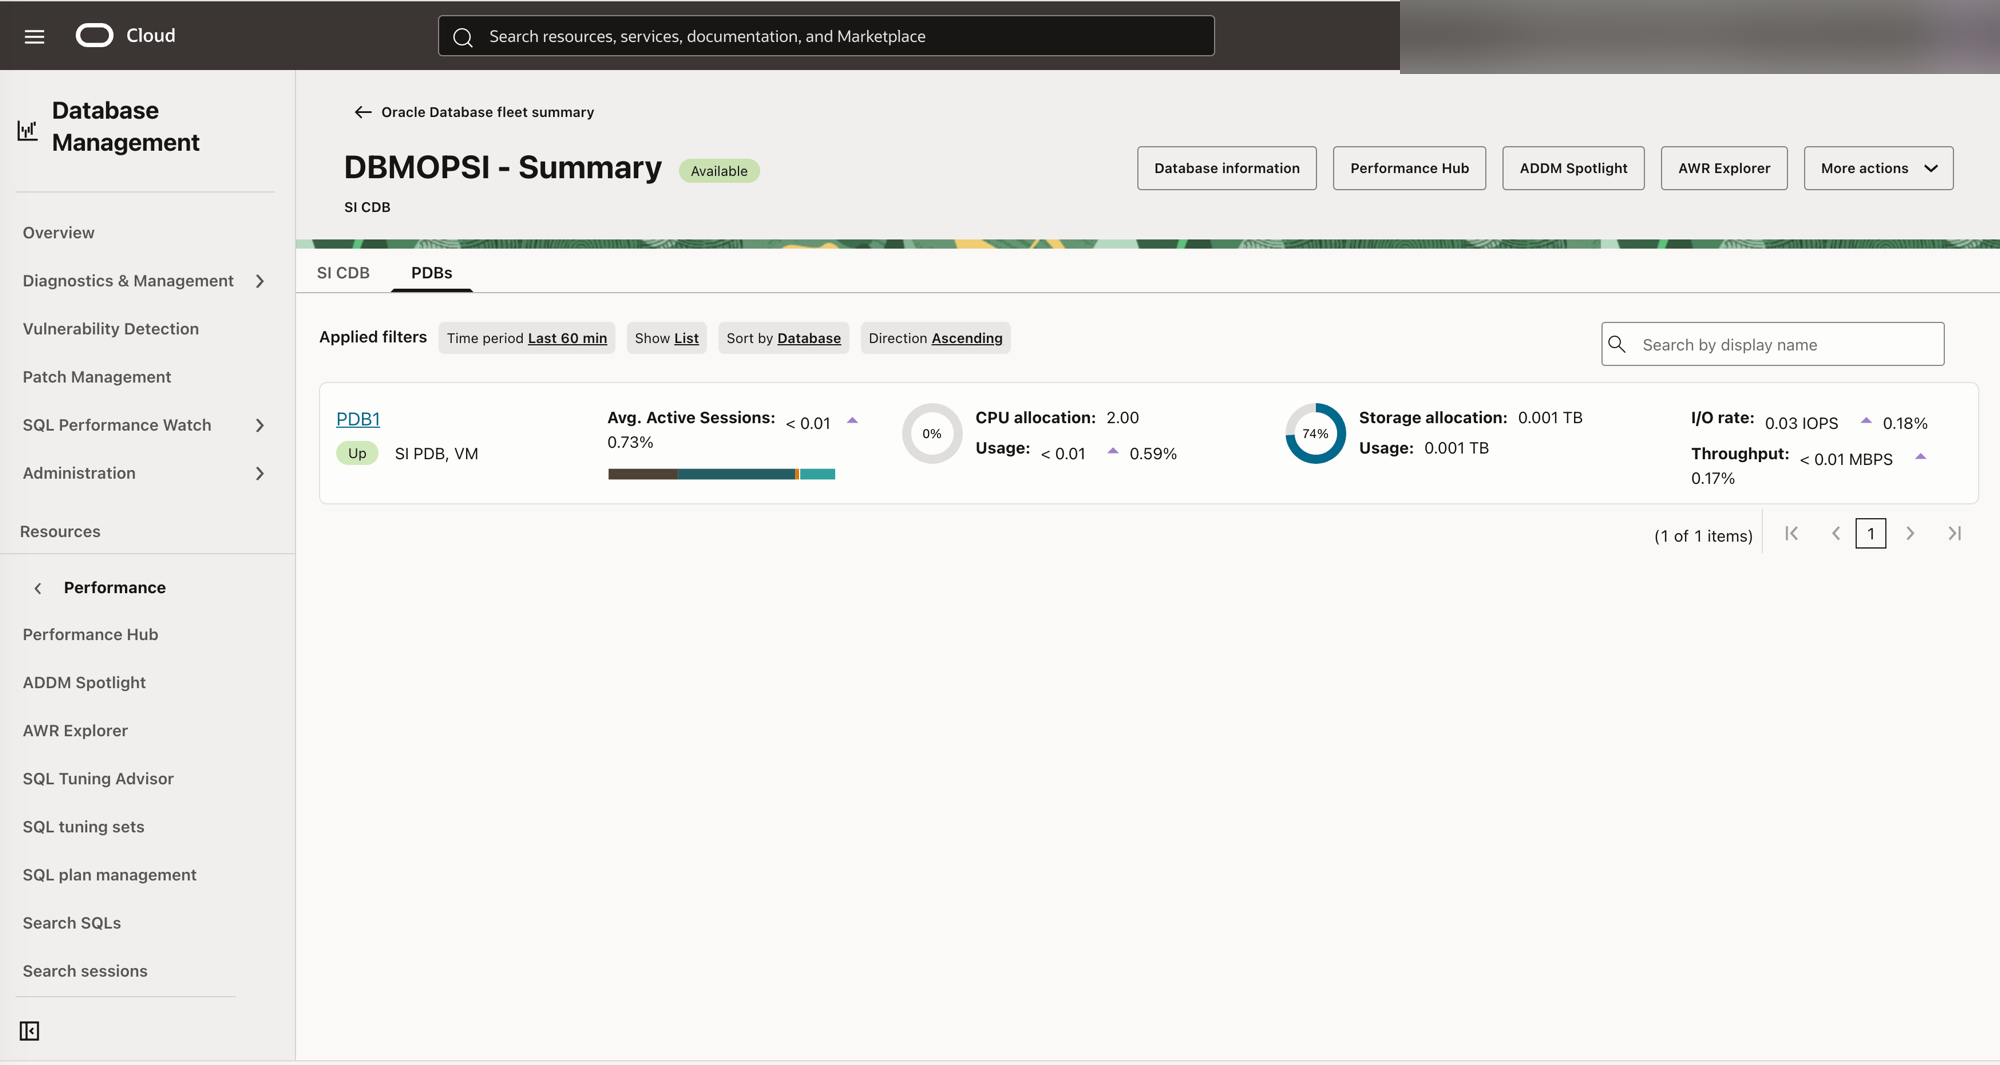
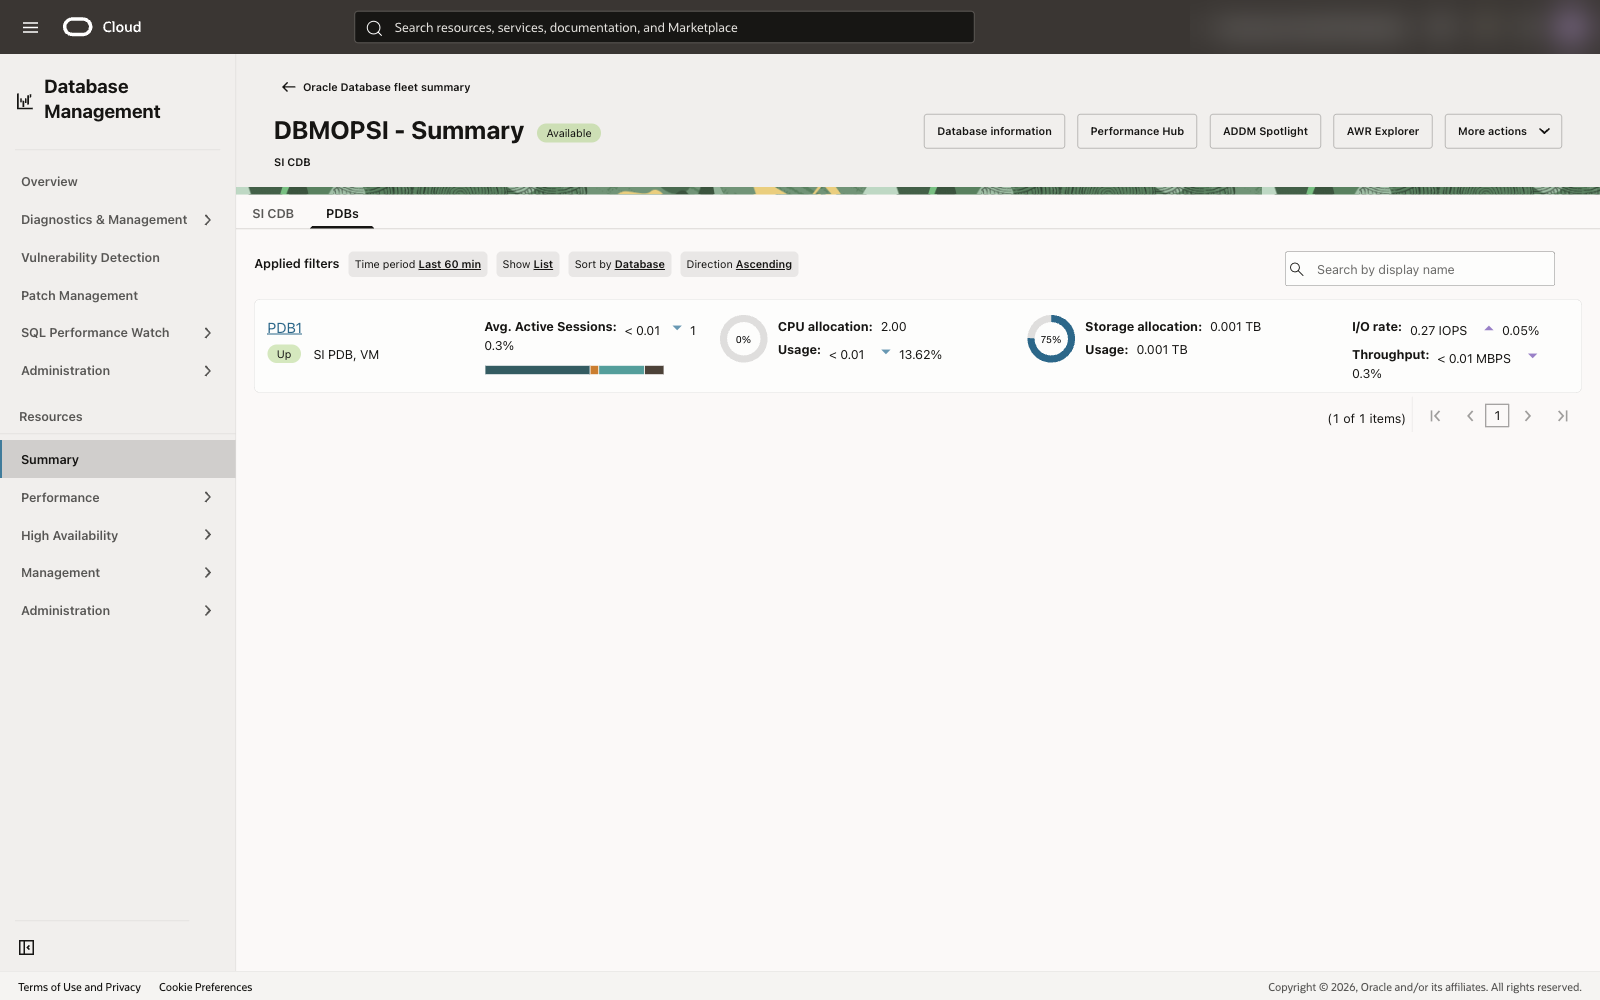
docs: refresh Console screenshots (3 pillars, 2 DB systems) + Data Safe/Perf Hub showcase
Captured via CDP-attach to the operator's logged-in Chrome (JET shadow-DOM defeats
click automation, so operator navigates + a connect_over_cdp helper screenshots),
redacted with PIL (region/account band, compartment chip, and SQL/service/user
tables blurred):

- console-01 (Managed Databases) + console-02 (fleet diagnostics): now show BOTH
  DB systems — DBMOPSI/PDB1 and the new dbmanops/dbmanops_pdb1 — all Enabled/Full.
- console-03 (PDBs tab): PDB1 Up with live Performance Hub metrics.
- console-04 (Data Safe Target databases, NEW): 3 targets Active.
- console-05 (Performance Hub, NEW): AAS chart + ASH Analytics; SQL-detail tables blurred.

Workshop: 'What success looks like (OCI Console)' section ties each capture to its
lab. Runbook Phase 5: console-04/05 added to the committed list; CDP-attach recipe
updated (Security Assessment view as an optional follow-up). raw/ stays gitignored.

diff --git a/docs/RUNBOOK-e2e-cap.md b/docs/RUNBOOK-e2e-cap.md
@@ -326,22 +326,29 @@ Committed (redacted) screenshots in `docs/screenshots/`:
   all-green.
 - `console-03-dbmopsi-pdbs.png` — PDBs tab: PDB1 **Up** with live Performance Hub
   metrics; full Performance/Tuning nav.
+- `console-04-data-safe-targets.png` — Data Safe **Target databases**: the three
+  registered targets (`dbman-opsi-dbcs-PDB1`, `dbman-opsi-dbcs2-cdb`,
+  `dbman-opsi-dbcs2-PDB1`) all **Active**.
+- `console-05-performance-hub.png` — Performance Hub: Activity Summary / Average
+  Active Sessions + ASH Analytics (SQL-detail tables blurred — live SQL/service/users).
+
+The Managed Databases (`console-01`) and fleet (`console-02`) views now show **both**
+DB systems — the original `DBMOPSI`/`PDB1` and the freshly-provisioned
+`dbmanops`/`dbmanops_pdb1` — all Enabled/Full.
 
 Redaction: a DOM/text pass masks OCIDs, IPs, db_unique_name+domain, tenancy/account
 name and emails; for operator-pasted images, sensitive bands (header
 region/account/avatar, compartment chip) are Gaussian-blurred with PIL. Raw captures
 go to `docs/screenshots/raw/` (gitignored) — only redacted images are committed.
 
-### Pending: Data Safe Console view (operator capture)
+### Capturing more Console views (CDP-attach recipe)
 
-A Data Safe screenshot is the one remaining showcase asset. It needs a live,
-logged-in browser (the extension policy blocks automation), so capture it with the
-same **CDP-attach** procedure above and add a redacted
-`console-04-data-safe-targets.png`:
-
-1. Console → **Oracle Data Safe** → **Target databases** (region eu-frankfurt-1).
-2. Show the registered target(s) **Active** (e.g. `dbman-opsi-dbcs-PDB1`,
-   `dbman-opsi-dbcs2-cdb`, `dbman-opsi-dbcs2-PDB1`) and, optionally, a
-   **Security Assessment** summary for one target.
-3. Redact OCIDs / IPs / tenancy / db_unique_name+domain (blur the header band and
-   any service strings) before committing; raw → `docs/screenshots/raw/`.
+The Data Safe and Performance Hub views (`console-04`/`05`) were captured with the
+CDP-attach flow above and are committed. The OCI Console is a JET SPA whose left-nav
+and list rows live in **shadow DOM**, so Playwright/JS clicks do not reach them —
+the reliable recipe is: **you** navigate the menu in the logged-in CDP Chrome, then a
+small `connect_over_cdp` helper screenshots the current tab to
+`docs/screenshots/raw/`, and a PIL pass blurs the region/account band, compartment
+chip, and any SQL/service/user tables before committing. To add a **Security
+Assessment** view, open Data Safe → a target → Security Assessment and capture it the
+same way.

diff --git a/docs/workshop/README.md b/docs/workshop/README.md
@@ -198,6 +198,42 @@ For Data Masking / Data Discovery, also run the per-target privilege script from
 the OCI Console (Data Safe > Target databases > Register > Download Privilege
 Script).
 
+## What success looks like (OCI Console)
+
+These redacted captures (region/account band and compartment chip blurred) show the
+end state after the labs — two Base Database systems (`DBMOPSI`/`PDB1` and a
+freshly-provisioned `dbmanops`/`dbmanops_pdb1`) with all three pillars on.
+
+**Database Management — Managed Databases** (Lab 5). Both container DBs and their
+PDBs show **Enabled / Full** under ADVANCED management:
+
+![Managed Databases](../screenshots/console-01-managed-databases.png)
+
+**Diagnostics & Management — fleet summary** (Lab 5). All managed databases with
+live CPU / storage / Average-Active-Sessions metrics:
+
+![Fleet diagnostics summary](../screenshots/console-02-dbmopsi-summary.png)
+
+**Database summary — Pluggable Databases tab** (Lab 5). `PDB1` **Up** with live
+Performance Hub metrics; the *Performance Hub / ADDM Spotlight / AWR Explorer*
+actions are available (no privilege prompt, thanks to scripts `03`/`05`):
+
+![DBMOPSI PDBs](../screenshots/console-03-dbmopsi-pdbs.png)
+
+**Operations Insights — Performance Hub** (Lab 5). Activity Summary / Average
+Active Sessions with ASH Analytics (SQL-detail tables blurred — they contain live
+SQL, service names, and users):
+
+![Performance Hub](../screenshots/console-05-performance-hub.png)
+
+**Data Safe — Target databases** (Lab 6). The registered targets are **Active**
+(`dbman-opsi-dbcs-PDB1`, `dbman-opsi-dbcs2-cdb`, `dbman-opsi-dbcs2-PDB1`):
+
+![Data Safe target databases](../screenshots/console-04-data-safe-targets.png)
+
+`discover --json` corroborates the Console: each enabled DB reports
+`dbm_status: ENABLED`, `opsi_status: ENABLED`, and `data_safe_status: ENABLED`.
+
 ## Resource Manager Path
 
 Use the Deploy to Oracle Cloud button in the repository README to launch the Terraform stack in any tenant. Resource Manager provisions only OCI-side prerequisites. Database credentials and database-side SQL execution remain explicit workshop steps.
